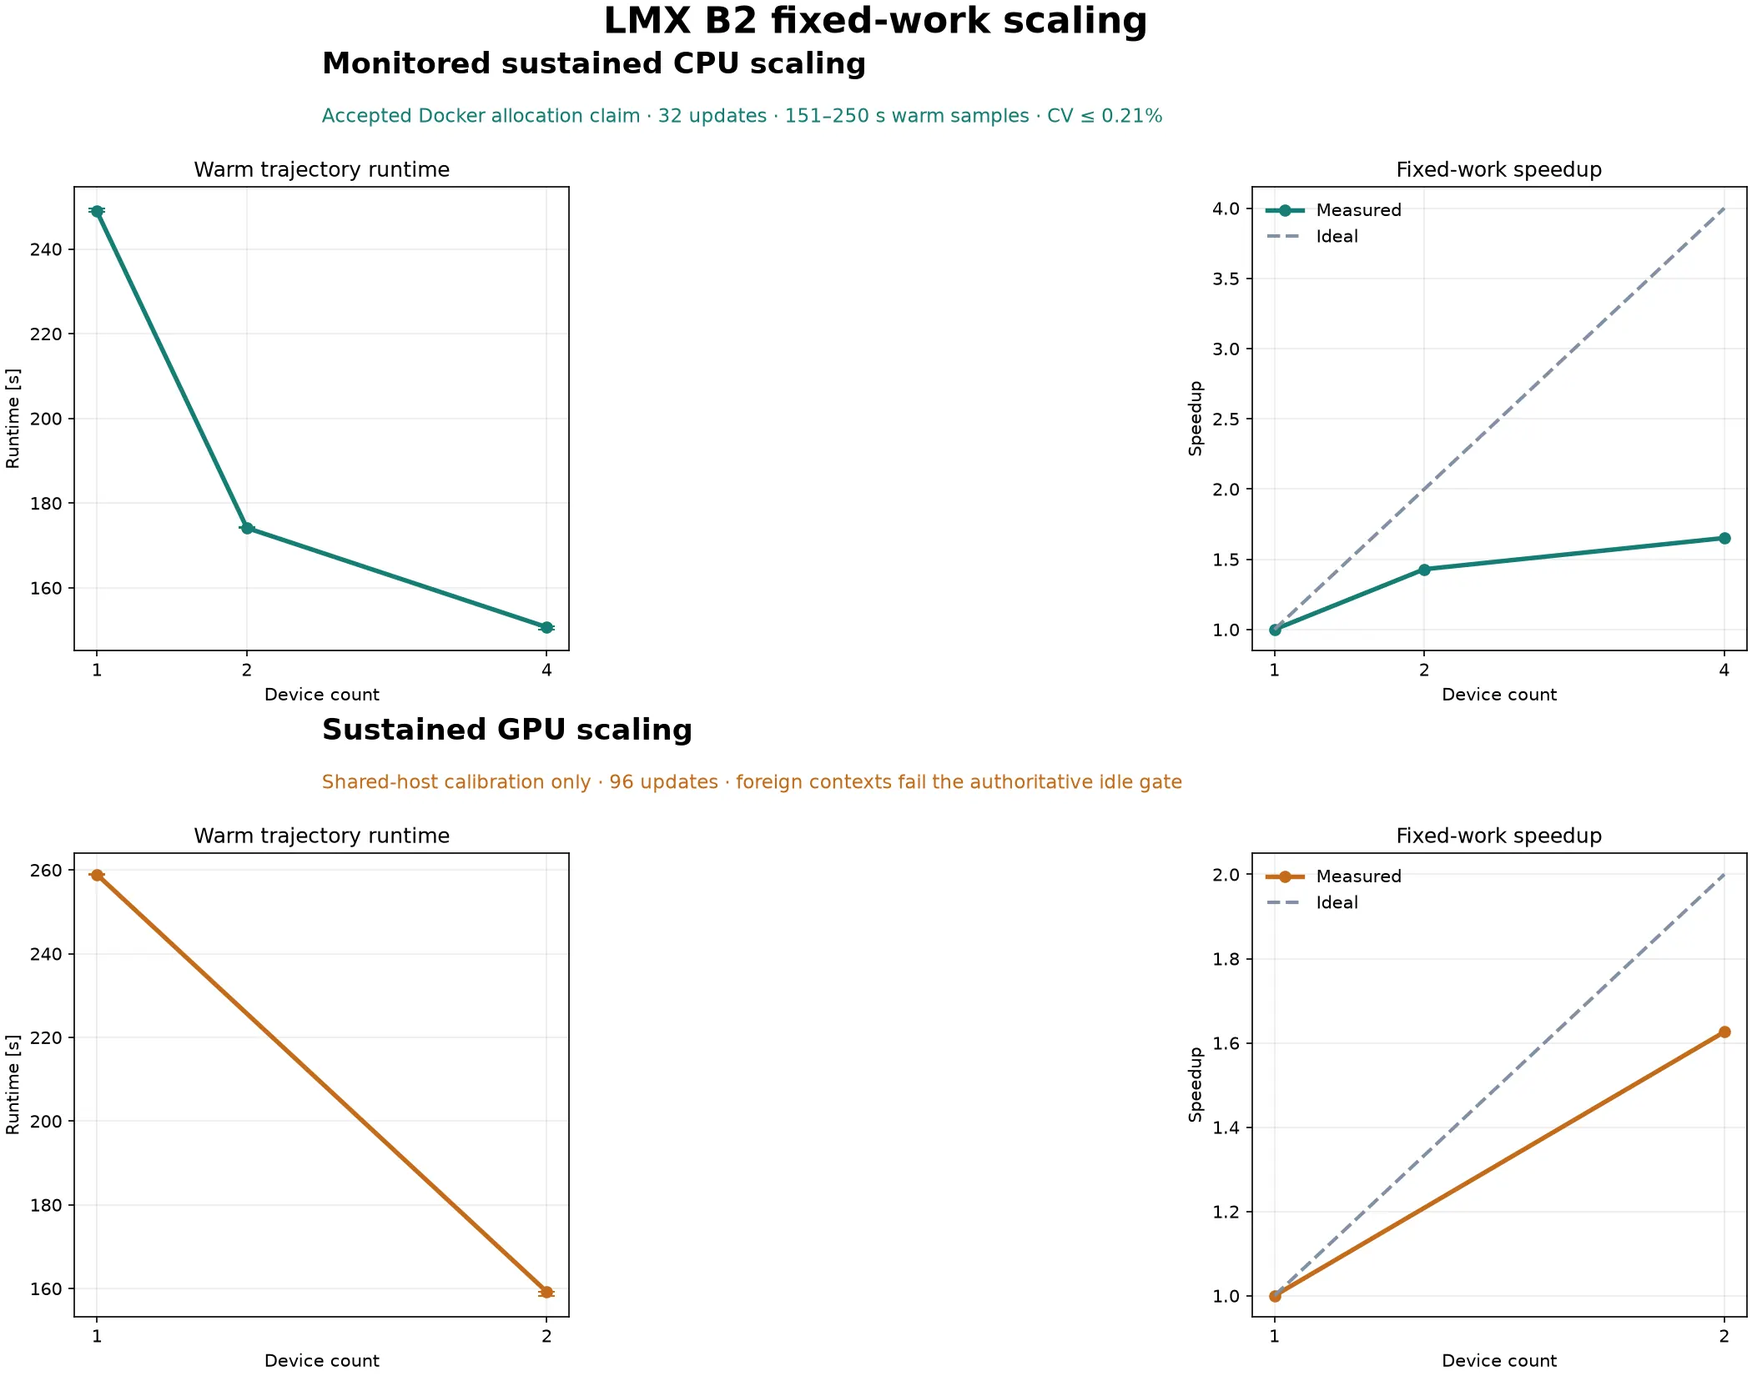
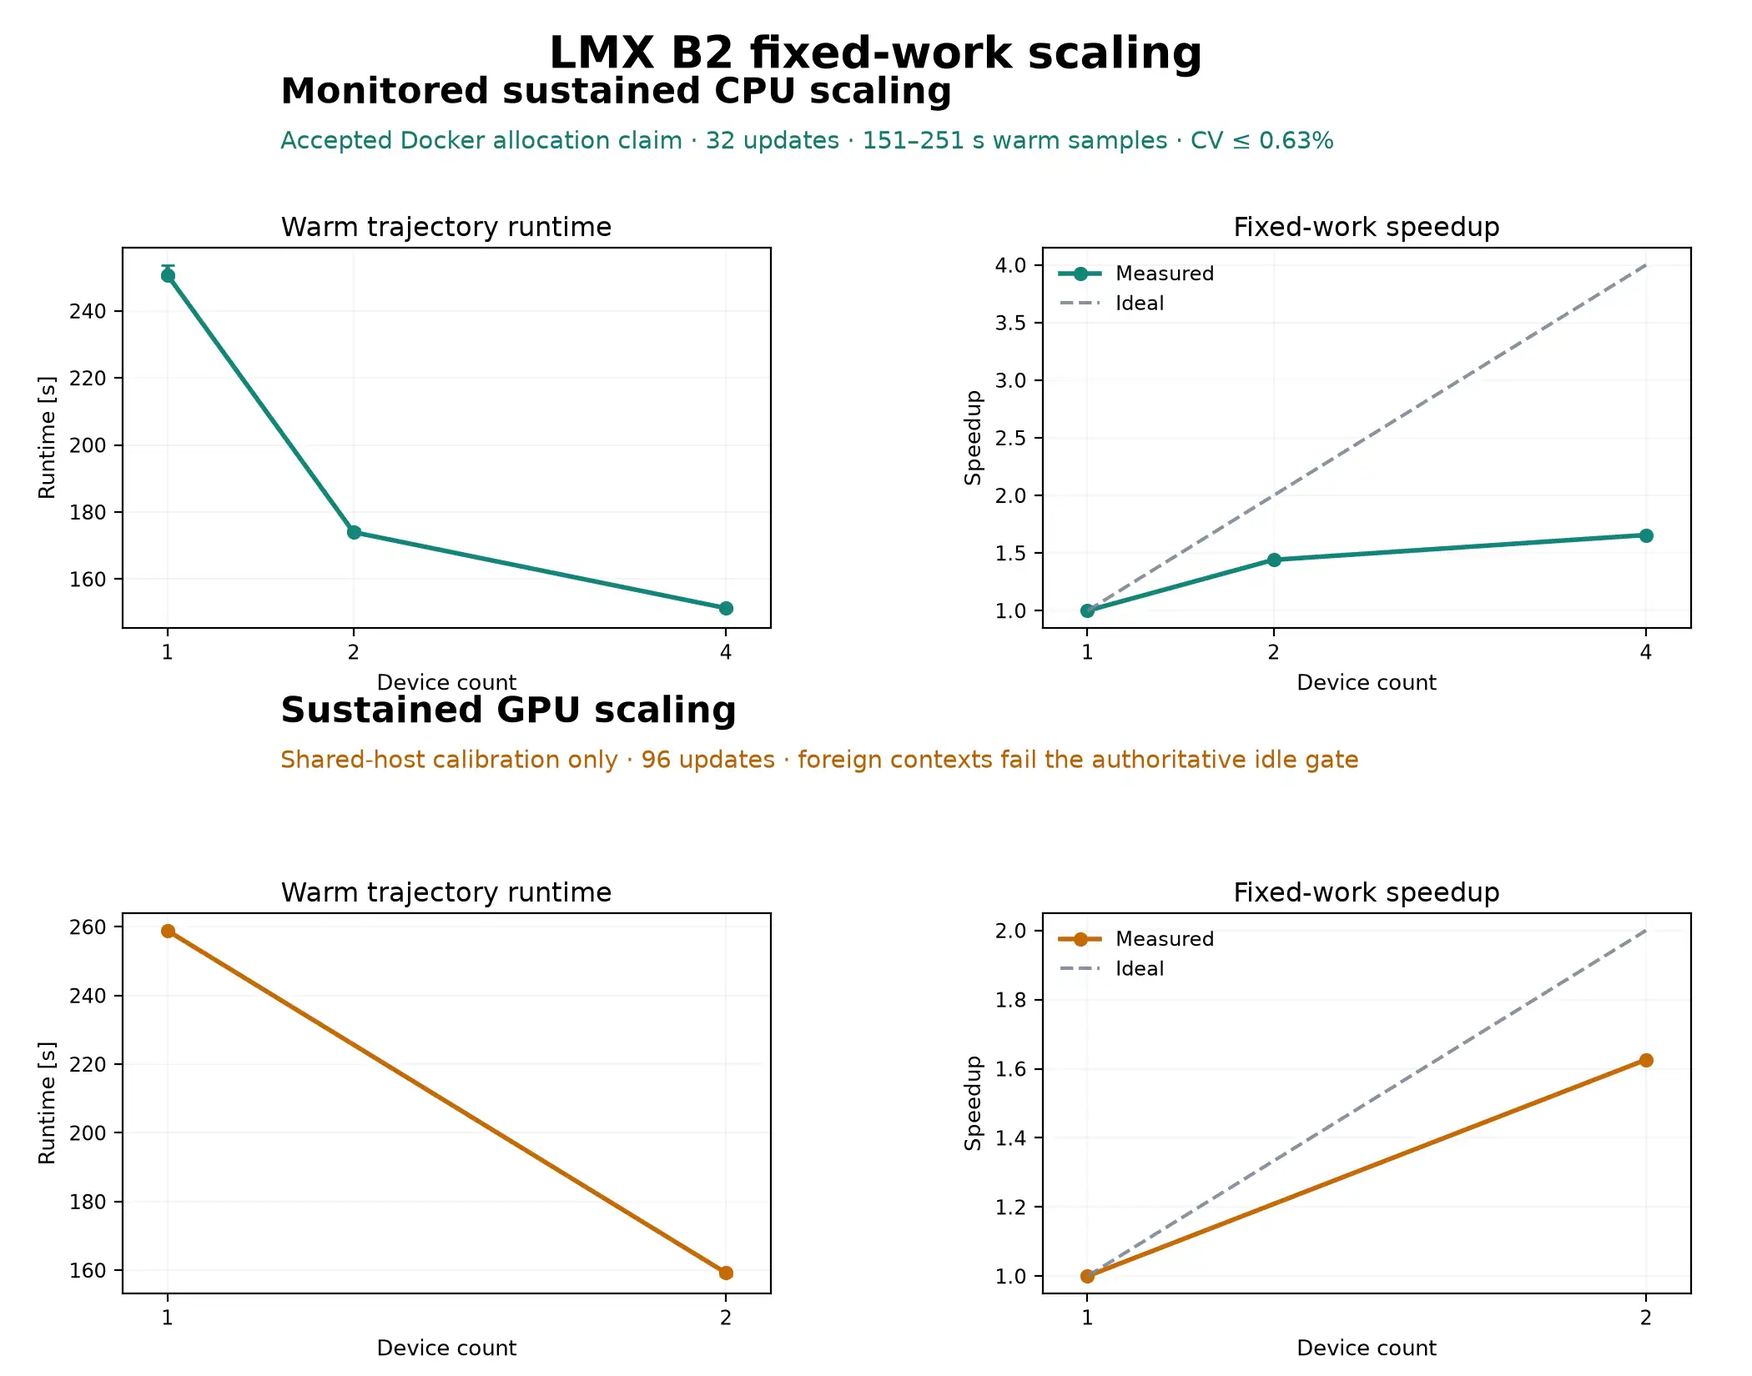
Publish fresh sustained CPU scaling

diff --git a/docs/performance.md b/docs/performance.md
@@ -14,12 +14,9 @@ one/two-GPU shared-host calibration; foreign contexts still fail its idle gate.
 
 | Path | Hardware and grid | Result | Interpretation |
 |---|---|---|---|
-| portable test gate | Apple M4, six workers | 865 pass, 8 skip, 95.39% combined line/branch coverage, 125.8 s | 42% of the five-minute target and 21% of the ten-minute budget |
+| portable test gate | Apple M4, six workers | 864 pass, 8 skip, 95.39% combined line/branch coverage, 122.6 s | 41% of the five-minute target and 20% of the ten-minute budget |
 | B2 CPU smoke | Apple M4, `8 x 7 x 7`, 1/2/4 forced CPU devices | current-source pressure observable agrees within `5.93e-15`; closure and exact restart pass | production sharding correctness; too small for scaling claims |
-| B2 schema-6 CPU calibration | Apple M4, `256 x 67 x 67`, 1/2/4 forced CPU devices | 15.159/12.337/11.146 s; 1.229x/1.360x speedup; exact restart and device equivalence pass | accepted correctness/calibration; four-device promotion gate not met |
-| B2 CPU-allocation confirmation | ARM64 Docker on Apple M4, `256 x 67 x 67`, 2/4/8 affinity-controlled guest CPUs for 1/2/4 devices | 22.894/15.953/14.252 s; 1.435x/1.606x; 95% lower bounds 1.364x/1.548x; efficiency 71.8%/40.2% | repeated two-update calibration; host P/E-core mapping unverified |
-| B2 monitored CPU scaling | same grid/masks, 32 updates, three warm trajectories per topology | 248.882/174.128/150.700 s; 1.429x/1.652x; peak process RSS 4.79/5.33/5.54 GB; CV below 0.21% | accepted Docker CPU-allocation scaling; fresh admission, continuous/postflight environment, numerics, restart, and placement pass; exact host-core mapping remains open |
-| rejected monitored CPU diagnostic | same grid/masks, 24 updates | 193.234/132.962/133.753 s; apparent 1.453x/1.445x; CV 8.46%/1.55%/12.91% | retained rejection audit: one short sample and a two-device swapout |
+| B2 monitored CPU scaling | same grid/masks, 32 updates, three warm trajectories per topology | 250.756/173.993/151.342 s; 1.441x/1.657x; peak process RSS 4.758/5.078/5.578 GB; CV at most 0.631% | accepted Docker CPU-allocation scaling from source `6f89d1a`, evaluated by `6729bdf`; environment, numerics, restart, and placement pass; exact host-core mapping and steady-state acceptance remain open |
 | B2 sustained GPU calibration | 1/2 RTX A4000, same grid, 96 updates, three warm trajectories per topology | 258.913/159.234 s; 1.626x; peak device memory 2.50 GB vs 1.41/1.31 GB; CV below 0.29% | numerical/duration gates pass; persistent foreign contexts block an authoritative timing claim |
 | B2 pseudo-time gate | Apple M4, corrected warm `7 x 7 x 7`, canonical `Ha=2900`, `N=540` equations | 64x/32x/16x map-rate spread 0.0768%; raw updates halve; exact restart | 64x refrozen; versioned stopping threshold open |
 | B2 physical-residual probe | Apple M4, `7 x 7 x 7` | residual 0.03870 at step 90; omitted reconstruction force is 0.0880 at step 4 | diagnostic has a plausible coarse split floor; never a stopping gate |
@@ -29,12 +26,7 @@ one/two-GPU shared-host calibration; foreign contexts still fail its idle gate.
 | B2 acceleration gates | Apple M4, cold `7 x 7 x 7`, six updates | raw Anderson ends at `0.5281`; bounded fallback ends at `0.114718` vs `0.114466` control; 98.254--99.887% of shared residual energy is potential | both rejected; shared-norm objective is misaligned with velocity convergence |
 | B2 fixed relaxation | canonical `min=max=2` | exact trajectory/restart; prior residual omitted | saves 18.46 MiB at `102 x 77 x 77` and two global dot products/update |
 | B2 GPU smoke | 1/2 RTX A4000 GPUs, `8 x 7 x 7` | current schema-6 placement, replay, conservation, linear, and repeat gates pass; two-GPU state error `2.22e-16`, flux exact | topology correctness only; shared-host timing excluded |
-| B2 scaling calibration | Apple M4, `128 x 31 x 31`, 1/2/4 forced CPU devices | 0.857/0.652/0.633 s; 1.31x/1.35x speedup; exact restart and device equivalence pass | historical pre-terminal-fix calibration; rerun before promotion |
-| B2 GPU calibration | 1/2 RTX A4000 GPUs, `128 x 67 x 67`, default XLA | current medians 2.780/2.400 s; repeat, trace, restart, placement, and equivalence pass | 1.159x misses the 1.2x promotion gate; no scaling claim |
-| B2 doubled-axial calibration | 1/2 RTX A4000 GPUs, `256 x 67 x 67`, default XLA | 8.47/7.53 s; 1.125x speedup; CV below 3.7% | historical pre-terminal-fix calibration below the 1.2x threshold |
 | historical SOLVAX PCG equivalence | Apple M4 CPU and RTX A4000 GPU | 0.8.2 forward, gradient, transpose, memory, and Hartmann gates pass; one-shot GPU warm ratio is 1.184 | archival; PCG is unchanged and no refresh is planned |
-| sharded 3D operator | Apple M4, `516 x 32 x 32` | 1.16x on 2 cores, 1.28x on 4, 0.93x on 6 | actual shard placement verified; surrogate only |
-| B2 axial sharding | 2 x RTX A4000, `102 x 77 x 77` | 36.96 s on one GPU, 22.23 s on two | diagnostic 1.66x result for superseded formulation |
 | legacy B2 medium independence | 2 x RTX A4000, `152 x 113 x 113` | all four numerical variants pass; final confirmations take 34.94--57.64 s | superseded no-inertia/stationwise-flow formulation |
 | legacy B2 fine campaign | 2 x RTX A4000, `202 x 149 x 149` | baseline 457.37 s; iteration and wall confirmations 65.23/62.10 s | superseded formulation; tight-tolerance independence remains open |
 | B1 modal setup | RTX A4000, `11 x 17 x 32` | 57.85 s first, 10.63 s restart | accepted setup optimization |
@@ -177,42 +169,18 @@ solve only 0.85% (`0.7437` to `0.7374` seconds). That fast path is rejected
 before the large rung. These results remain forced-device sharding evidence,
 not physical-core strong scaling.
 
-The first ARM64 Docker probe supplies auditable Linux `cpuset` masks, but its
-tiny real-solver grid is not an acceptable scaling workload. One/two/four
-shards agree within `5.2e-14`, while warm time regresses from 0.530 s to
-0.575/0.693 s and the residual never passes the `5e-5` steady gate. Those
-timings remain rejected. A subsequent current-source `128 x 67 x 67` matched
-schema-6 pilot found that one CPU per JAX device starves the CPU collective
-runtime: two devices on two CPUs hit the 40-second all-reduce rendezvous abort.
-The preflight therefore fixed two guest CPUs per device and reran nested
-2/4/8-CPU masks. Warm medians fall from 7.351 to 5.546/4.574 seconds, giving
-1.325x/1.607x speedups and 66.3%/40.2% efficiency. All affinity, placement,
-restart, repeat, conservation, linear, Anderson, and cross-topology gates pass.
-The six-repeat `256 x 67 x 67` calibration reports 22.894, 15.953, and 14.252
-second warm medians. Its 1.435x/1.606x speedups, 1.364x/1.548x 95% lower bounds,
-and 71.8%/40.2% efficiencies pass the frozen calibration gates, but the runs
-are short. A 20-update duration pilot then failed closed at 95.63–97.51 s.
-The preflight-admitted `a92b4e6` 32-update workload measures 246.702, 187.307, and 146.524 s
-on one/two/four JAX devices allocated 2/4/8 CPUs, with every warm sample above
-120 s. Speedups are 1.317x/1.684x, their empirical 95% lower bounds are
-1.301x/1.661x, and efficiencies are 65.9%/42.1%. CVs remain below 4.45%;
-midpoint restart is exact and all schema-6, physics,
-placement, and cross-topology gates pass. It remains useful multi-minute
-calibration under the superseded static-preflight contract.
+The fresh 32-update evaluation of source `6f89d1a` by `6729bdf` closes the
+Docker-allocation gate. Its 250.756/173.993/151.342 s medians give
+1.441x/1.657x speedups; peak RSS is 4.758/5.078/5.578 GB and the maximum warm
+CV is 0.631%. Fresh admissions, full worker monitoring, 15-second postflights,
+pressure convergence, repeat signatures, restart/replay, placement, and
+topology equivalence all pass. Linux affinity is verified inside Docker;
+Docker Desktop does not expose exact Apple M4 P/E-core placement. Each fixed
+trajectory ends at the 32-update step limit, so this is allocation scaling, not
+a physical-core or steady-state claim.
 
-The current-source 24-update monitored ladder then measured 193.234, 132.962,
-and 133.753 s. It failed closed: one/four-device CVs were 8.46%/12.91%, the
-two-device monitor saw 179 swapout pages, and one four-device sample lasted
-117.941 s. Numerical, restart, pressure-solve, Anderson, and placement checks
-still pass; the apparent 1.453x/1.445x speedups are diagnostic only.
-
-The unchanged 32-update rerun at source `a98a658` closes the Docker-allocation
-gate. Its 248.882/174.128/150.700 s medians give 1.429x/1.652x speedups and
-71.5%/41.3% efficiencies; every warm sample lasts 150–250 s and CV stays below
-0.21%. Fresh admissions, full worker monitoring, 15-second postflights,
-pressure solves, exact repeat/restart signatures, placement, and cross-topology
-equivalence all pass. Linux affinity is verified inside Docker; Docker Desktop
-does not expose the guest-vCPU mapping onto heterogeneous M4 cores.
+Superseded pilots and rejected ladders remain auditable in
+`benchmarks/results/b2-schema6-cpu-scaling-20260716.json`.
 
 The medium B2 tight solve converged across two restart-safe segments and ended
 at residual `2.500e-5`, divergence `1.829e-6`, and charge residual `1.149e-4`.

diff --git a/plan.md b/plan.md
@@ -1,6 +1,6 @@
 # LMX authoritative development plan
 
-Status: 2026-07-16. LMX consumes released SOLVAX 0.8.4. Restart schema 6
+Status: 2026-07-17. LMX consumes released SOLVAX 0.8.4. Restart schema 6
 provides compact, exact one-plus-one replay and correct 1/2/4-CPU plus 1/2-GPU
 placement. Its tested Anderson and bounded affine variants miss the frozen 15%
 velocity-map gain, so fixed relaxation 2 remains the B2 control. The current
@@ -8,11 +8,13 @@ coarse B2 trajectory passes linear, conservation, restart, and placement gates
 but misses steady acceptance; no continuation is authorized.
 
 The current monitored `256 x 67 x 67`, 32-update CPU ladder passes every frozen
-Docker-allocation gate. Its 249/174/151-second medians give 1.429x/1.652x
-two/four-device speedups, CV below 0.21%, exact numerics/restart, correct
-placement, and clean admission/runtime/postflight traces. Exact M4 P/E-core
-mapping remains open. The 1.626x two-A4000 calibration remains non-authoritative
-because foreign contexts block GPU admission.
+Docker-allocation gate. Source `6f89d1a`, evaluated by `6729bdf`, gives
+250.756/173.993/151.342-second medians, 1.441x/1.657x two/four-device speedups,
+4.758/5.078/5.578 GB peak RSS, and 0.631% maximum CV. Numerics, restart,
+placement, and admission/runtime/postflight traces pass. Exact M4 P/E-core
+mapping remains open, and step-limit trajectories are not steady-state
+evidence. The 1.626x two-A4000 calibration remains non-authoritative because
+foreign contexts block GPU admission.
 
 The `--sustained` preset keeps 32 CPU or 96 GPU updates, one cold plus three
 warm trajectories, a 120-second warm minimum, an 1800-second ceiling, and
@@ -120,17 +122,18 @@ shared without removing cases or assertions.
 | Surface | Current | Active ratchet | CI hard ceiling |
 |---|---:|---:|---:|
 | package modules | 35 | no new module | 35 |
-| package lines | 34,454 | stay below 34,455 | 35,100 |
+| package lines | 34,445 | stay below 34,446 | 35,100 |
 | maintained-core lines | 7,869 | stay below 7,870 | 8,000 |
-| test files / lines | 30 / 21,007 | no new file; next test change must reduce lines | 31 / 21,100 |
+| test files / lines | 30 / 21,005 | no new file; next test change must reduce lines | 31 / 21,100 |
 | maintenance scripts | 13 | no new script without retiring an owner | 13 |
 | tracked files | 186 | no new file without retiring another owner | 187 |
-| tracked checkout | 4,553,206 bytes | next tranche must reduce bytes without hiding direct visuals | 4,718,592 bytes |
+| tracked checkout | 4,551,170 bytes | stay below 4,551,171 without hiding direct visuals | 4,718,592 bytes |
 
 These ratchets must come from ownership deletion, shared helpers, or removal of
 superseded behavior—not unreadable formatting or arbitrary test merging.
-The latest audits unified field/CSV ownership and removed a test-only modal
-fallback; the direct B1 gate remains, and B2 reuses complete checkpoints.
+The latest audits unified WHAM route-axis ownership, made variable-field
+validation fail closed on nonfinite velocity, and removed its duplicate solve
+test. The direct B1 gate remains, and B2 reuses complete checkpoints.
 The remaining result records, 13 scripts, and distinct Python/TOML examples
 retain current provenance, CI, or runnable-workflow ownership; do not merge
 them unless the replacement deletes code without weakening those contracts.
@@ -166,8 +169,8 @@ above 45 seconds. Preserve the 300-second engineering target,
 parameterization and shared fixtures inside existing test files; do not create
 another test file merely to move lines.
 
-The current gate passes 865 tests with 8 expected skips and 95.39% combined
-coverage in 125.8 seconds. Canonical finite-volume ownership removes 72 source
+The current gate passes 864 tests with 8 expected skips and 95.39% combined
+coverage in 122.6 seconds. Canonical finite-volume ownership removes 72 source
 lines; the smaller wall-resolved B2 gate retains physics, convergence,
 checkpoint, and exact-restart assertions, cuts its hotspot by 5.94 seconds, and
 deletes 11 test lines. The next test change remains a net deletion.
@@ -186,11 +189,13 @@ verifiable affinity; forced macOS devices prove topology only.
 
 The historical 32-update CPU calibration used only static preflight. A later
 24-update ladder was correctly rejected for one/four-device instability,
-two-device swapout, and one 117.941-second sample. The unchanged monitored
-32-update rerun now passes: 248.882/174.128/150.700-second medians,
-1.429x/1.652x speedups, CV below 0.21%, and clean continuous/postflight traces.
-This closes Docker CPU-allocation scaling only; do not relabel it physical-core
-scaling.
+two-device swapout, and one 117.941-second sample. The fresh monitored
+evaluation of source `6f89d1a` by `6729bdf` passes:
+250.756/173.993/151.342-second medians, 1.441x/1.657x speedups,
+4.758/5.078/5.578 GB peak RSS, 0.631% maximum CV, and clean
+continuous/postflight traces. This closes Docker CPU-allocation scaling only;
+do not relabel it physical-core scaling or steady-state evidence because every
+trajectory ends at the fixed 32-update step limit.
 The sustained CPU launcher now records one-second host samples through the
 worker plus a 15-second postflight and binds the ignored JSONL digest to the
 source fingerprint; any probe, affinity, swapout, foreign-work, or gap violation

diff --git a/docs/developer_guide.md b/docs/developer_guide.md
@@ -9,15 +9,15 @@ dependency, or large generated-asset change:
 .venv/bin/python scripts/audit_architecture.py --check --measure-import
 ```
 
-The current checkpoint records 35 package modules and 34,749 total
-package lines. The maintained stable core is 7,865 lines;
+The current checkpoint records 35 package modules and 34,445 total
+package lines. The maintained stable core is 7,869 lines;
 the rest is explicitly classified as research-stage extensions,
 validation/evidence tooling, or visualization. The stable root surface is 30
 exports and the curated catalog contains 11 workflows. Lightweight import is
 about 19 ms on the audited development machine. Advanced APIs import from their
 owning submodules; see the [migration guide](migration.md).
 
-The current tracked checkout is 4,494,916 bytes, below its 4.5 MiB hard cap.
+The current tracked checkout is 4,551,170 bytes, below its 4.5 MiB hard cap.
 Sixty-five generated files larger than 128 KiB were bundled in the versioned release
 indexed by [`release-assets.json`](release-assets.json)
 and removed only after a fresh download passed archive membership, size, and
@@ -224,8 +224,8 @@ The latest local evidence pass on this workstation shows:
 
 - Python 3.10 compatibility lane: the complete battery without coverage
   instrumentation, under the 10-minute wall-clock target
-- Reference coverage lane: 865 tests pass with 95.39% combined line/branch
-  coverage over `lmx/` in 125.8 seconds; workflow behavior is exercised by the
+- Reference coverage lane: 864 tests pass with 95.39% combined line/branch
+  coverage over `lmx/` in 122.6 seconds; workflow behavior is exercised by the
   same suite
 
 The hard rule for routine CI/CD is that the parallel workflow must stay under

diff --git a/README.md b/README.md
@@ -139,16 +139,18 @@ Q2D-MHDfoam parity and blanket validation remain open.
 
 ![Monitored multi-minute CPU scaling and shared-host GPU calibration](https://raw.githubusercontent.com/uwplasma/LMX/main/docs/_static/strong_scaling.webp)
 
-Monitored 32-update CPU trajectories last 151–250 s and reach **1.429×/1.652×**
-on two/four JAX devices, with CV below 0.21% and exact restart/numerics. This is
-Docker CPU-allocation scaling; exact M4-core mapping remains open. The plotted
-two-A4000 result reaches 1.626× but remains a shared-host calibration.
+Monitored 32-update CPU trajectories take 250.756/173.993/151.342 s and reach
+**1.441×/1.657×** on two/four JAX devices, with CV at most 0.631% and exact
+restart/numerics. Source `6f89d1a` was evaluated by `6729bdf`. This is Docker
+CPU-allocation scaling, not physical-core or steady-state evidence; the fixed
+trajectories end at their step limit. The 1.626× two-A4000 result remains a
+shared-host calibration.
 [Protocol and results →](https://lmx.readthedocs.io/en/latest/performance.html)
 
 ## Quality and citation
 
-The portable gate records **865 passing tests**, **95.39% combined line/branch
-coverage**, and **125.8 s** on six Apple-Silicon workers.
+The portable gate records **864 passing tests**, **95.39% combined line/branch
+coverage**, and **122.6 s** on six Apple-Silicon workers.
 [Testing](https://lmx.readthedocs.io/en/latest/testing.html) ·
 [Theory](https://lmx.readthedocs.io/en/latest/theory.html) ·
 [Numerics](https://lmx.readthedocs.io/en/latest/numerics.html) ·

diff --git a/docs/validation_report.md b/docs/validation_report.md
@@ -38,8 +38,8 @@ current-closure, and power-closure gates; no solver was rerun for presentation.
 - SOLVAX integration, including symmetric additive-line composition,
   passes primal, implicit-gradient, independent transpose, CPU/GPU, and bounded
   end-to-end gates.
-- The portable package gate passes 865 tests with 8 expected external-data
-  skips and 95.39% combined line/branch coverage in 125.8 seconds on the
+- The portable package gate passes 864 tests with 8 expected external-data
+  skips and 95.39% combined line/branch coverage in 122.6 seconds on the
   reference Mac.
 - The B2 projection now preserves predictor cells and reconstructs only its
   pressure correction. The corrected warm 64x/32x/16x map-rate ladder spans

diff --git a/docs/testing.md b/docs/testing.md
@@ -10,8 +10,8 @@ external solvers, long physics campaigns, and hardware scaling.
 ```
 
 The driver runs the full suite with branch coverage, a minimum coverage of 95%,
-and a hard ten-minute timeout. The current Apple M4 record is 865 passed,
-8 expected external-data skips, 95.39% combined line/branch coverage, and 125.8
+and a hard ten-minute timeout. The current Apple M4 record is 864 passed,
+8 expected external-data skips, 95.39% combined line/branch coverage, and 122.6
 seconds with six workers. The default warning threshold is five minutes, and
 the current run leaves more than seven minutes of hard-budget headroom. The
 record keeps the ten slowest node IDs for critical-path review.
